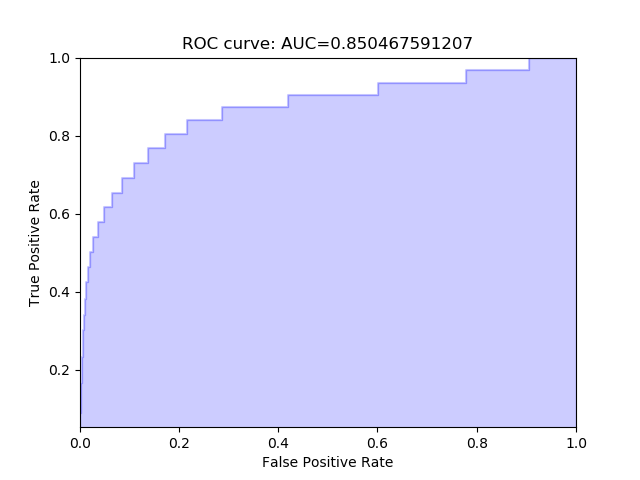
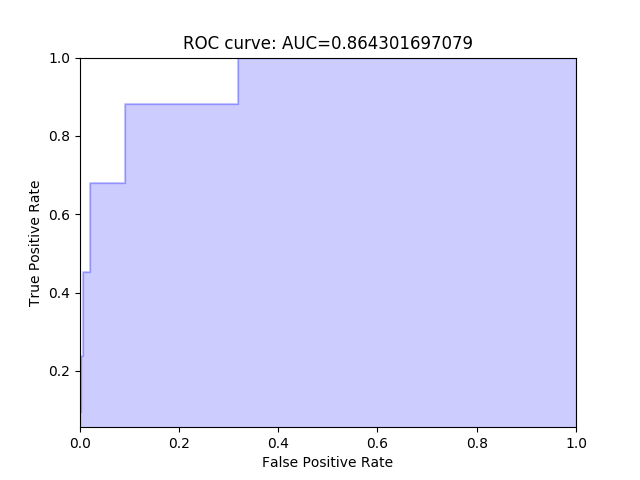
Rough implementation of color-based background subtraction

diff --git a/tools/background_modeling.py b/tools/background_modeling.py
@@ -1,3 +1,5 @@
+from __future__ import division
+
 import logging
 
 import cv2 as cv
@@ -37,16 +39,16 @@ def multivariative_gaussian_modelling(back_list, color_space="RGB"):
     start = time.time()
 
     back_img = cv.imread(back_list[0])
-    if color_space == "YUV":
-        back_img = cv.cvtColor(back_img, cv.CV_BGR2YCrCb)
+    if color_space == "HSV":
+        back_img = cv.cvtColor(back_img, cv.COLOR_BGR2HSV)
 
     mean = np.zeros((back_img.shape[0], back_img.shape[1], back_img.shape[2]))
     variance = np.zeros((back_img.shape[0], back_img.shape[1], back_img.shape[2]))
 
     for back_image in back_list:
-        back_img = cv.imread(back_image, cv.IMREAD_COLOR)
-        if color_space == "YUV":
-            back_img = cv.cvtColor(back_img, cv.CV_BGR2YCrCb)
+        back_img = cv.imread(back_image)
+        if color_space == "HSV":
+            back_img = cv.cvtColor(back_img, cv.COLOR_BGR2HSV)
         mean[:, :, 0] = mean[:, :, 0] + back_img[:, :, 0]
         mean[:, :, 1] = mean[:, :, 1] + back_img[:, :, 1]
         mean[:, :, 2] = mean[:, :, 2] + back_img[:, :, 2]
@@ -54,9 +56,9 @@ def multivariative_gaussian_modelling(back_list, color_space="RGB"):
     mean = mean / len(back_list)
 
     for back_image in back_list:
-        back_img = cv.imread(back_image, cv.IMREAD_COLOR)
-        if color_space == "YUV":
-            back_img = cv.cvtColor(back_img, cv.CV_BGR2YCrCb)
+        back_img = cv.imread(back_image)
+        if color_space == "HSV":
+            back_img = cv.cvtColor(back_img, cv.COLOR_BGR2HSV)
         variance[:, :, 0] = variance[:, :, 0] + np.square(back_img[:, :, 0] - mean[:, :, 0])
         variance[:, :, 1] = variance[:, :, 1] + np.square(back_img[:, :, 1] - mean[:, :, 1])
         variance[:, :, 2] = variance[:, :, 2] + np.square(back_img[:, :, 2] - mean[:, :, 2])
@@ -77,14 +79,15 @@ def foreground_estimation(img, mean, variance, alpha):
     return foreground
 
 
-def foreground_estimation_color(img, mean, variance, alpha):
-    img = cv.imread(img) - mean
-    threshold = np.zeros((img.shape[0], img.shape[1], img.shape[2]))
-    threshold[:, :, 0] = alpha[0] * (np.sqrt(variance[:, :, 0]) + 2)
-    threshold[:, :, 1] = alpha[1] * (np.sqrt(variance[:, :, 1]) + 2)
-    threshold[:, :, 2] = alpha[2] * (np.sqrt(variance[:, :, 2]) + 2)
-    foreground = (img[:, :, 0] >= threshold[:, :, 0]) & (img[:, :, 1] >= threshold[:, :, 1]) & (
-                img[:, :, 2] >= threshold[:, :, 2])
+def foreground_estimation_color(img, mean, variance, alpha, color_space):
+    img = cv.imread(img)
+    if color_space == "HSV":
+        img = cv.cvtColor(img, cv.COLOR_BGR2HSV)
+    img = np.abs(img - mean)
+    threshold = alpha * (np.sqrt(variance) + 2)
+    foreground = (img[:, :, 0] >= threshold[:, :, 0]) | \
+                 (img[:, :, 1] >= threshold[:, :, 1]) | \
+                 (img[:, :, 2] >= threshold[:, :, 2])
     return foreground
 
 
@@ -93,6 +96,25 @@ def adaptive_foreground_estimation(img, mean, variance, alpha, rho):
     img = cv.imread(img, cv.IMREAD_GRAYSCALE)
     img_norm = np.abs(img - mean)
     foreground = (img_norm >= threshold)
+    back = (1 - foreground)
+    img_background = img * back
+    # The mean for the Background pixels (back) is adapted, the mean for the foreground pixels remains the same
+    mean = (rho * img_background + (1 - rho) * mean) * back + mean * (1 - back)
+    # The variance for the Background pixels (back) is adapted, the variance for the foreground pixels remains the same
+
+    variance = (rho * np.square(img_background - mean) + (1 - rho) * variance) * back + variance * (1 - back)
+    return foreground, mean, variance
+
+
+def adaptive_foreground_estimation_color(img, mean, variance, alpha, rho, color_space):
+    img = cv.imread(img)
+    if color_space == "HSV":
+        img = cv.cvtColor(img, cv.COLOR_BGR2HSV)
+    img_norm = np.abs(img - mean)
+    threshold = alpha * (np.sqrt(variance) + 2)
+    foreground = (img_norm[:, :, 0] >= threshold[:, :, 0]) | \
+                 (img_norm[:, :, 1] >= threshold[:, :, 1]) | \
+                 (img_norm[:, :, 2] >= threshold[:, :, 2])
     back = (1 - foreground)
     img_background = img * back
     # The mean for the Background pixels (back) is adapted, the mean for the foreground pixels remains the same

diff --git a/video_surveillance.py b/video_surveillance.py
@@ -6,7 +6,6 @@ import argparse
 import itertools
 import logging
 import os
-import sys
 
 import cv2 as cv
 import numpy as np
@@ -119,11 +118,17 @@ def background_estimation(cf):
 
     if cf.evaluate_foreground:
         logger.info('Running foreground evaluation')
-        mean, variance = background_modeling.single_gaussian_modelling(background_img_list)
+        if cf.color_images:
+            mean, variance = background_modeling.multivariative_gaussian_modelling(background_img_list,
+                                                                                   cf.color_space)
+        else:
+            # Model with a single Gaussian
+            mean, variance = background_modeling.single_gaussian_modelling(background_img_list)
 
-        alpha_range = np.linspace(cf.evaluate_alpha_range[0], cf.evaluate_alpha_range[1], num=50)
+        alpha_range = np.linspace(cf.evaluate_alpha_range[0], cf.evaluate_alpha_range[1], num=cf.evaluate_alpha_values)
         precision, recall, F1_score, FPR = segmentation_metrics.evaluate_foreground_estimation(
-            cf.modelling_method, foreground_img_list, foreground_gt_list, mean, variance, alpha_range, cf.rho
+            cf.modelling_method, foreground_img_list, foreground_gt_list, mean, variance, alpha_range, cf.rho,
+            cf.color_images
         )
 
         if cf.find_best_parameters:
@@ -157,14 +162,22 @@ def background_estimation(cf):
     else:
         if cf.modelling_method == 'gaussian':
             logger.info('Running single Gaussian background estimation')
-            # Model with a single Gaussian
-            mean, variance = background_modeling.single_gaussian_modelling(background_img_list)
+            if cf.color_images:
+                mean, variance = background_modeling.multivariative_gaussian_modelling(background_img_list,
+                                                                                       cf.color_space)
+            else:
+                # Model with a single Gaussian
+                mean, variance = background_modeling.single_gaussian_modelling(background_img_list)
 
             if cf.save_results:
                 logger.info('Saving results in {}'.format(cf.results_path))
                 mkdirs(cf.results_path)
                 for image in foreground_img_list:
-                    foreground = background_modeling.foreground_estimation(image, mean, variance, cf.alpha)
+                    if cf.color_images:
+                        foreground = background_modeling.foreground_estimation_color(image, mean, variance, cf.alpha,
+                                                                                     cf.color_space)
+                    else:
+                        foreground = background_modeling.foreground_estimation(image, mean, variance, cf.alpha)
                     image_name = os.path.basename(image)
                     image_name = os.path.splitext(image_name)[0]
                     fore = np.array(foreground, dtype='uint8') * 255

diff --git a/metrics/segmentation_metrics.py b/metrics/segmentation_metrics.py
@@ -1,11 +1,13 @@
 from __future__ import division
-import sys
+
+import logging
 import time
 
 import cv2 as cv
 import numpy as np
 
-from tools.background_modeling import foreground_estimation, adaptive_foreground_estimation
+from tools.background_modeling import (foreground_estimation, adaptive_foreground_estimation,
+                                       foreground_estimation_color, adaptive_foreground_estimation_color)
 
 EPSILON = 1e-8
 
@@ -41,7 +43,7 @@ def evaluate_list_foreground_estimation(modelling_method, imageList, gtList, mea
 
 
 def evaluate_foreground_estimation(modelling_method, imageList, gtList, mean, variance, alpha=(1,),
-                                   rho=0.5):
+                                   rho=0.5, color_images=False, color_space='RGB'):
     precision = []
     recall = []
     F1_score = []
@@ -51,9 +53,16 @@ def evaluate_foreground_estimation(modelling_method, imageList, gtList, mean, va
         metrics = np.zeros(4)
         for test_image, gt_image in zip(imageList, gtList):
             if modelling_method == 'gaussian':
-                foreground = foreground_estimation(test_image, mean, variance, al)
+                if color_images:
+                    foreground = foreground_estimation_color(test_image, mean, variance, al, color_space)
+                else:
+                    foreground = foreground_estimation(test_image, mean, variance, al)
             elif modelling_method == 'adaptive':
-                foreground, mean, variance = adaptive_foreground_estimation(test_image, mean, variance, al, rho)
+                if color_images:
+                    foreground, mean, variance = adaptive_foreground_estimation_color(test_image, mean,
+                                                                                      variance, al, rho, color_space)
+                else:
+                    foreground, mean, variance = adaptive_foreground_estimation(test_image, mean, variance, al, rho)
             foreground = np.array(foreground, dtype='uint8')
             gt_img = cv.imread(gt_image, cv.IMREAD_GRAYSCALE)
             metrics += evaluate_single_image(foreground, gt_img)

diff --git a/config/highway_background.py b/config/highway_background.py
@@ -2,7 +2,7 @@
 dataset_name                 = 'highway'                        # Dataset name
 dataset_path                 = 'datasets/highway/input'         # Dataset path
 gt_path                      = 'datasets/highway/groundtruth'   # Ground truth path
-results_path                 = 'datasets/highway/results'
+results_path                 = 'datasets/highway/results/color'
 
 # Input Images
 nr_images                    = 300
@@ -12,15 +12,15 @@ gt_image_type                = 'png'        # Ground truth image type
 result_image_type            = 'png'
 
 # Background Modelling
-alpha                         = 2.85
+alpha                         = 2
 rho                           = 0.21
 
-modelling_method              = 'adaptive'  # adaptive instead
-color_images                  = False        # Use RGB, YUV color channels
-color_space                   = "RGB"       # RGB, YUV
+modelling_method              = 'gaussian'  # adaptive instead
+color_images                  = True        # Use RGB, YUV color channels
+color_space                   = "RGB"       # RGB, HSV
 evaluate_foreground           = True
 evaluate_alpha_range          = [0, 6]
-evaluate_alpha_values         = 60          # number of alpha values to evaluate
+evaluate_alpha_values         = 10          # number of alpha values to evaluate
 evaluate_rho_range            = [0, 1]      # range of rho values
 evaluate_rho_values           = 20          # number of rho values to evaluate
 find_best_parameters          = False
